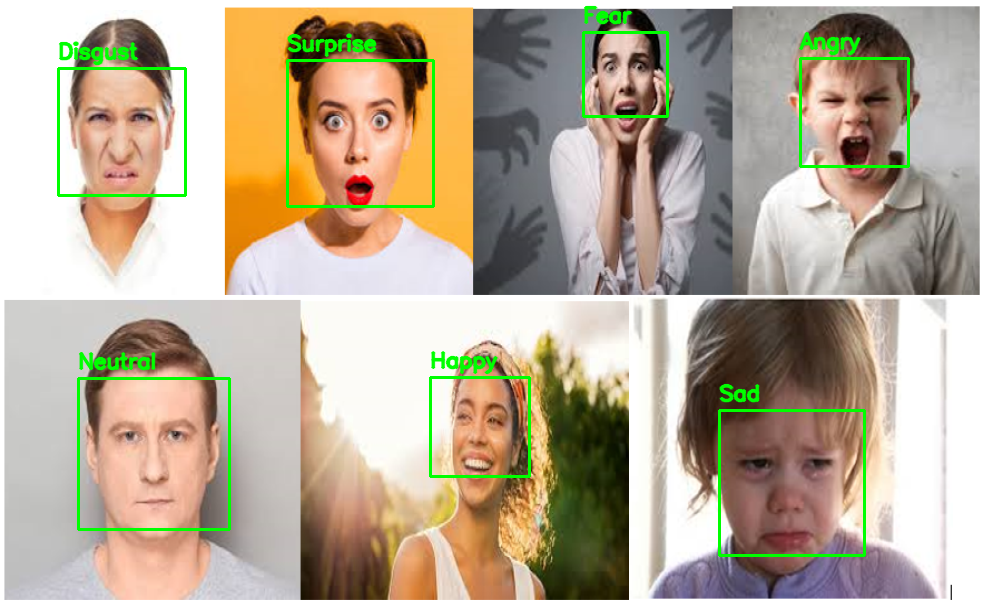
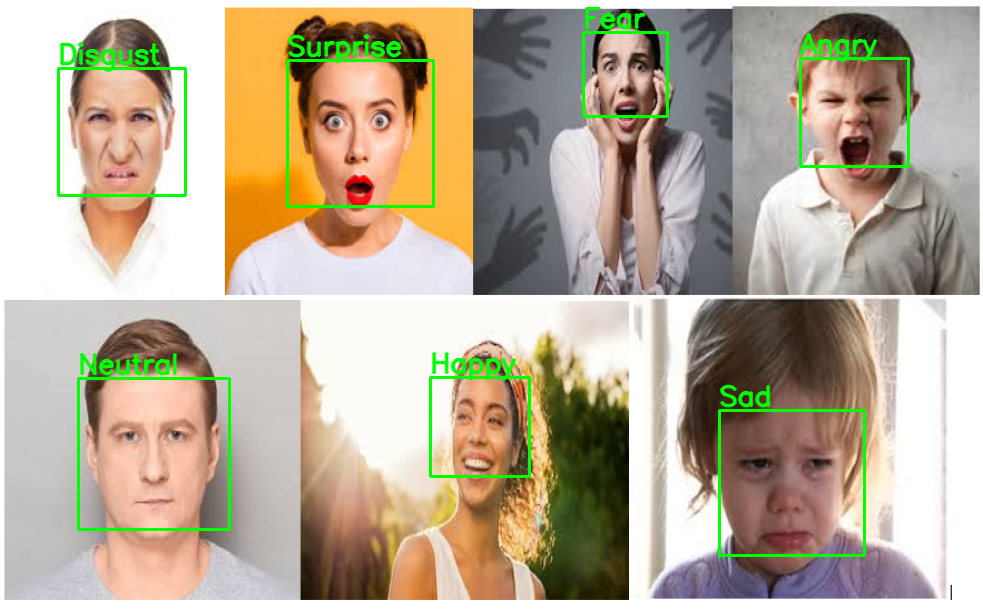
Initial commit

diff --git a/templates/register.html b/templates/register.html
@@ -1,7 +1,7 @@
 {% extends "base.html" %}
 
 {% block content %}
-<section class="container py-2 px-4 mb-3 form_data">  
+<section class="container p-4 mb-3 form_data">  
 <form method="post" action="{{ url_for('register') }}">
   <section class="container text-center md">
     <h3>Register</h3>
@@ -19,15 +19,6 @@
         <input type="text" class="form-control" placeholder="Last name" aria-label="Last name" name="lName" id="lName" required>
       </div>
     </div>
-  </div>
-
-  <div class="form-check">
-    <input type="radio" class="form-check-input" id="validationFormCheck2" name="gender" value="Male" required>
-    <label class="form-check-label" for="validationFormCheck2">Male</label>
-  </div>
-  <div class="form-check mb-3">
-    <input type="radio" class="form-check-input" id="validationFormCheck3" name="gender" value="Female" required>
-    <label class="form-check-label" for="validationFormCheck3">Female</label>
   </div>
 
   <div class="row mb-3">

diff --git a/templates/base.html b/templates/base.html
@@ -26,6 +26,8 @@
 
 {% endblock %}
 
+<div class="text-center text-black footer fixed-bottom">&copy; 2025 CalmSpace. All rights reserved.</div>
+
 <script src="https://cdn.jsdelivr.net/npm/bootstrap@5.3.3/dist/js/bootstrap.bundle.min.js" integrity="sha384-YvpcrYf0tY3lHB60NNkmXc5s9fDVZLESaAA55NDzOxhy9GkcIdslK1eN7N6jIeHz" crossorigin="anonymous"></script>
 <script src="https://cdn.jsdelivr.net/npm/@popperjs/core@2.11.8/dist/umd/popper.min.js" integrity="sha384-I7E8VVD/ismYTF4hNIPjVp/Zjvgyol6VFvRkX/vR+Vc4jQkC+hVqc2pM8ODewa9r" crossorigin="anonymous"></script>
 <script src="https://cdn.jsdelivr.net/npm/bootstrap@5.3.3/dist/js/bootstrap.min.js" integrity="sha384-0pUGZvbkm6XF6gxjEnlmuGrJXVbNuzT9qBBavbLwCsOGabYfZo0T0to5eqruptLy" crossorigin="anonymous"></script>

diff --git a/templates/main.html b/templates/main.html
@@ -1,10 +1,13 @@
 {% extends "base1.html" %}
 
 {% block content %}
+
 <section class="container text-center">
-  <p class="lead text-center">Real-time Emotion Recognition</p>
+  <p class="lead text-center m-2">Real-time Emotion Recognition</p>
+  <hr>
     <div class="container mb-3 text-center">            
         <img src="{{ url_for('video')}}" class="container-sm mb-3 text-center rounded" style=" max-width:600px;">            
     </div>        
 </section>
+
 {% endblock %}

diff --git a/templates/index.html b/templates/index.html
@@ -1,7 +1,7 @@
 {% extends "base.html" %}
 
 {% block content %}
-<section class="container py-2 px-4 mb-3 form_data">
+<section class="container p-4 mb-3 form_data">
   <form method="post" action="{{ url_for('index') }}">  
     <section class="container text-center md">
       <h3>Sign In</h3>

diff --git a/static/styles.css b/static/styles.css
@@ -11,10 +11,6 @@ body {
     border-radius: 8px;
 }
 
-.back_home {
-    max-width: 600px; 
-}
-
 .footer {
     font-size: 12px;
     background: linear-gradient(to top, #6a5acd, #ede6ff);

diff --git a/camera.py b/camera.py
@@ -1,4 +1,4 @@
-# Importh the necessary libraries
+# Import the necessary libraries
 import cv2
 import numpy as np
 from tensorflow.keras.models import load_model
@@ -20,7 +20,7 @@ class VideoCamera(object):
     def __del__(self):
         self.video.release()
 
-    # capture and process frames
+    # Capture and process the video frames
     def get_frame(self):
         ret, frame = self.video.read()
         if not ret:
@@ -30,28 +30,28 @@ class VideoCamera(object):
         # Detect faces in the frame
         faces = face_cascade.detectMultiScale(gray, 1.3, 5)
 
-        # process each detected faces
+        # Process each detected face
         for (x, y, w, h) in faces:
-            # crop the detected face
+            # Crop the detected face
             face_detect=gray[y:y + h, x:x + w] 
-            # resize the cropped face
+            # Resize the cropped face
             roi = cv2.resize(face_detect, (48, 48), interpolation=cv2.INTER_AREA)
             # Normalize the ROI
             normalize=roi/255.0
-            # Reshape the image to 1 batch size to match the input of the model
+            # Reshape the image to match the input of the model
             reshaped=normalize.reshape(1, 48, 48, 1)
             # Make a prediction using the model
             prediction=model.predict(reshaped)
-            # find the index of the highest probability
+            # Find the index of the highest probability
             label=np.argmax(prediction, axis=1)[0]
-            # Convert to the label
+            # Map index to the correct label
             emotion_text=emotions[label]
 
             # Draw bounding box and label
             cv2.rectangle(frame, (x, y), (x + w, y + h), (0, 255, 0), 2)
-            cv2.putText(frame, emotion_text, (x, y - 10), cv2.FONT_HERSHEY_SIMPLEX, 0.7, (0, 255, 0), 2, cv2.LINE_AA)     
+            cv2.putText(frame, emotion_text, (x, y - 10), cv2.FONT_HERSHEY_SIMPLEX, 0.9, (0, 255, 0), 2, cv2.LINE_AA)     
 
-        #Encode frame as JPEG for real-time processing
+        # Encode frame as JPEG for real-time processing
         ret, jpg = cv2.imencode('.jpg', frame)
         return jpg.tobytes()
 
@@ -81,8 +81,8 @@ def process_image(image_path, output_path):
 
         # Draw bounding box and label
         cv2.rectangle(image, (x, y), (x + w, y + h), (0, 255, 0), 2)
-        cv2.putText(image, emotion_text, (x, y - 10), cv2.FONT_HERSHEY_SIMPLEX, 0.7, (0, 255, 0), 2, cv2.LINE_AA)     
+        cv2.putText(image, emotion_text, (x, y - 5), cv2.FONT_HERSHEY_SIMPLEX, 0.9, (0, 255, 0), 2, cv2.LINE_AA)     
 
-    # save the processed image
+    # Save the processed image
     cv2.imwrite(output_path, image)
     return output_path

diff --git a/app.py b/app.py
@@ -17,7 +17,7 @@ ALLOWED_EXTENSIONS = {'png', 'jpg', 'jpeg'}
 PREDICTED_FOLDER = os.path.join('static', 'predicted')
 app.config['PREDICTED_FOLDER'] = PREDICTED_FOLDER
 
-# check if uploaded file has the allowed extension
+# check if uploaded file has an allowed extension
 def allowed_file(filename):
     return '.' in filename and filename.rsplit('.', 1)[1].lower() in ALLOWED_EXTENSIONS
 
@@ -59,26 +59,26 @@ def index():
 def register():
     msg=''
     if request.method=='POST':
-        #get the form data
+        # Get the form data
         fName=request.form['fName']
         lName=request.form['lName']
-        gender=request.form['gender']
-        email=request.form['email']
+        email=request.form['email']        
         password=request.form['password']
 
+        # Create a cursor
         cursor =mysql.connection.cursor(MySQLdb.cursors.DictCursor)
         cursor.execute('SELECT * FROM users WHERE email=%s',(email,))
-        #check if the email already exists
+        # Check if the email already exists
         account=cursor.fetchone()
         if account:
-            #display an error message, if the email already exists
+            # Display an error message, if the email already exists
             msg='Email already exists!'
-            # ensure the format is correct
-        elif not re.match(r'^[a-zA-Z0-9]+(?:\.[a-zA-Z0-9]+)*@gmail\.com$', email):
+            # Ensure the format is correct
+        elif not re.match(r'^[a-zA-Z0-9](\.?[a-zA-Z0-9]){5,29}@gmail\.com$', email):
             msg = 'Invalid email address!'
         else:
-            cursor.execute('INSERT INTO users (fName,lName,gender,email,password) VALUES (%s,%s,%s,%s,%s)',(fName,lName,gender,email,password))
-            #commit the data to the database
+            cursor.execute('INSERT INTO users (fName,lName,email,password) VALUES (%s,%s,%s,%s)',(fName,lName,email,password))
+            # Commit the data to the database
             mysql.connection.commit()
             return redirect(url_for('index'))
     return render_template('register.html',msg=msg)
@@ -105,7 +105,7 @@ def predict():
             filename = secure_filename(file.filename)
             # write the filename for the predicted image
             predicted_filename = "predicted_" + filename
-            # path for the saving the predicted image
+            # Define filename for the predicted image
             predicted_path = os.path.join(app.config['PREDICTED_FOLDER'], predicted_filename)
             file.save(predicted_path)
             # call the process image function to predict the image

diff --git a/README.md b/README.md
@@ -1,8 +1,12 @@
-# Facial emotion recognition
+# Facial Emotion Recognition
+
 This project outlines the development of a facial emotion recognition system that uses deep learning to analyze facial expressions and categorize the emotions.
-# Dataset
+
+## Dataset
 The model was trained using the FER-2013 dataset, which has 48x48 pixel grayscale images with labeled facial expressions.
-# Features
-- Real-time emotion recognition: Detects faces from a live webcam feed using OpenCV's Haar Cascade Classifier. Using a trained CNN, it recognizes emotions such as happy, sad, angry, surprise, and others.  
-- Output: Displays the predicted emotions directly on the webcam feed.  
-- Flask Web Application: A web interface to interact with the emotion recognition model using real-time emotion detection.  
+
+## Features
+
+- **Real-time emotion recognition**: Uses a webcam to detect faces and show emotions like happy, sad, angry, etc.
+- **Image Prediction**: Uploaded images show the predicted emotion.
+- **Web App**: A simple Flask app to use the system through a web browser.
